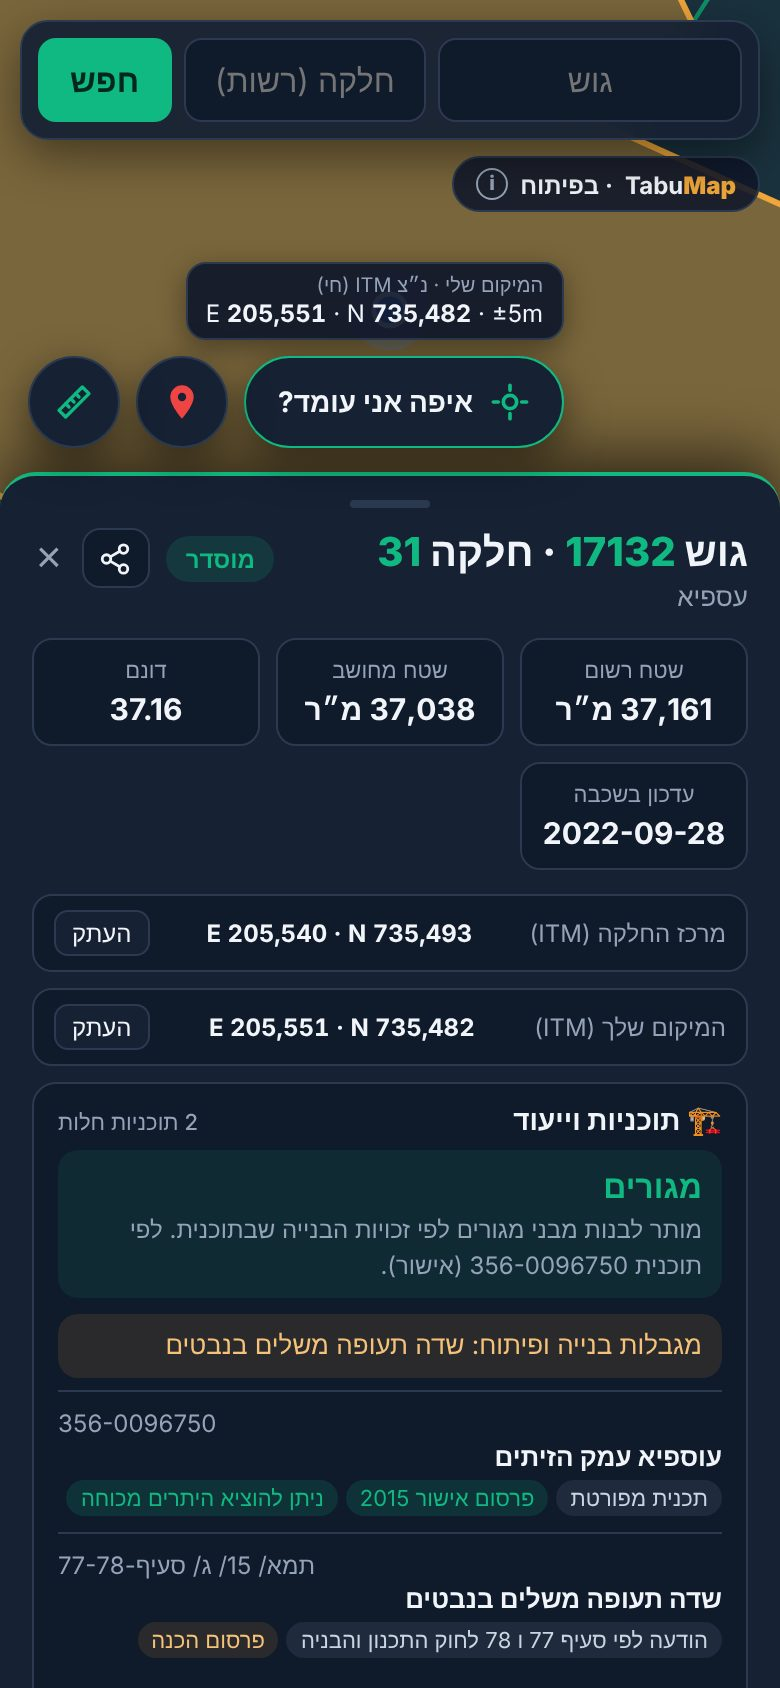
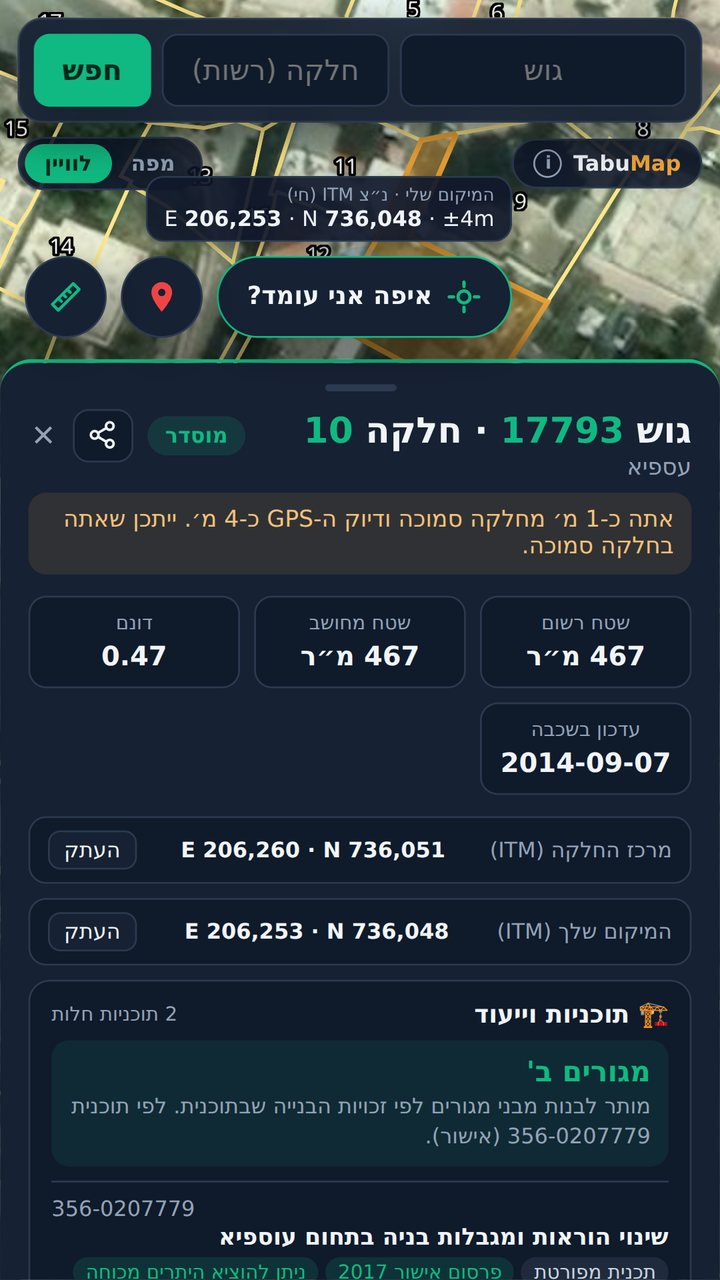
Landing screenshots with the real background map and satellite imagery
Claude-Session: https://claude.ai/code/session_01VLMtTQgPnMJgmWQRScFxBP

diff --git a/index.html b/index.html
@@ -47,7 +47,7 @@ footer{border-top:1px solid var(--line);margin-top:40px;padding-top:16px;color:v
 </div>
 
 <div class="shots">
- <img src="img/01-gps-he.jpg" alt="איתור חלקה לפי GPS עם נ״צ רשת ישראל"><img src="img/02-plans-he.jpg" alt="ייעוד הקרקע והתוכניות שחלות על החלקה"><img src="img/03-measure-he.jpg" alt="מדידת החלקה: אורך כל צלע, היקף ושטח בדונם"><img src="img/04-pins-he.jpg" alt="המיקומים שלי: נעצים עם נ״צ וגוש/חלקה">
+ <img src="img/01-gps-he.jpg?v=2" alt="איתור חלקה לפי GPS עם נ״צ רשת ישראל"><img src="img/02-plans-he.jpg?v=2" alt="ייעוד הקרקע והתוכניות שחלות על החלקה"><img src="img/03-measure-he.jpg?v=2" alt="מדידת החלקה: אורך כל צלע, היקף ושטח בדונם"><img src="img/04-pins-he.jpg?v=2" alt="המיקומים שלי: נעצים עם נ״צ וגוש/חלקה">
 </div>
 
 <div class="grid">
